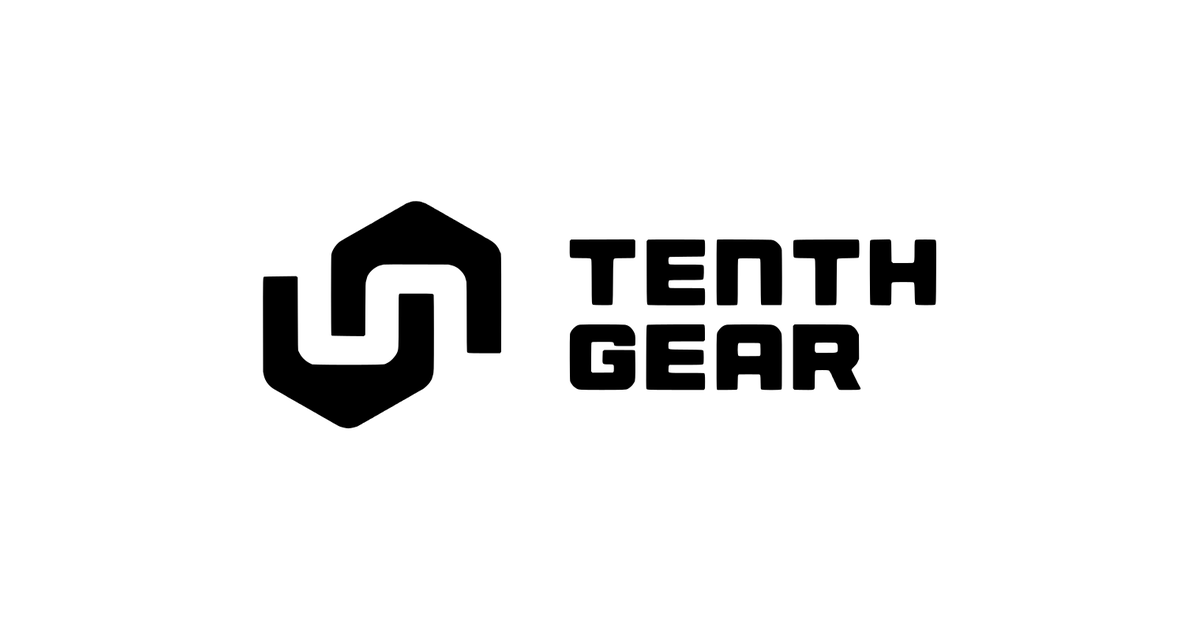
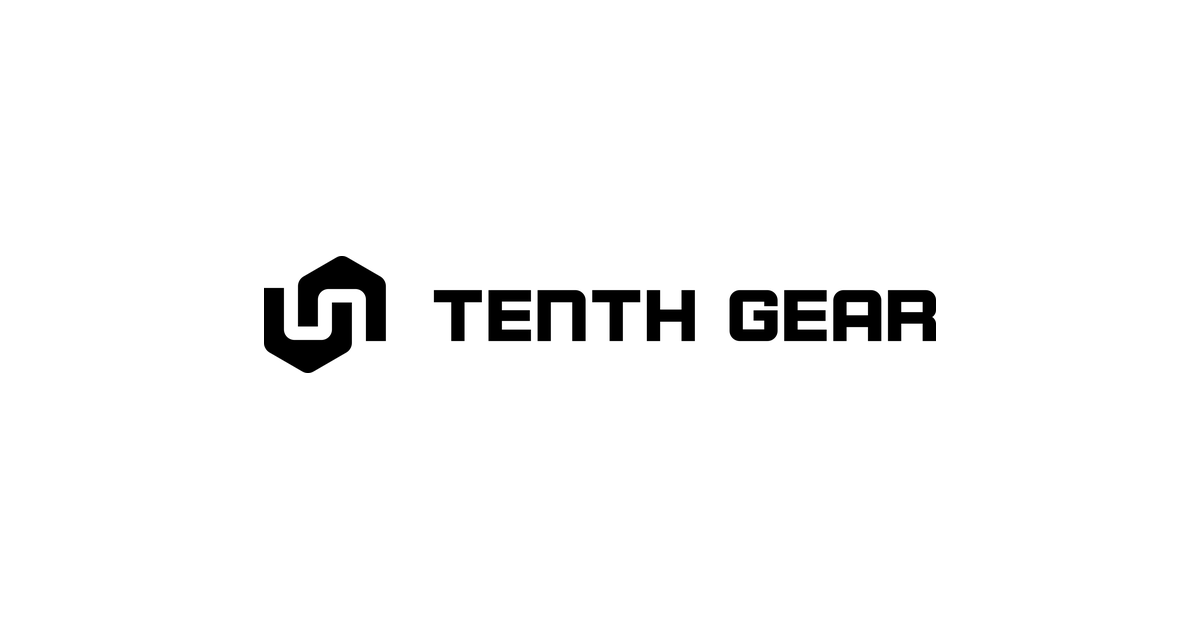
rebrand: swap placeholder mark for the final TenthGear identity (Phase 1)
- favicon.ico, browser.png, apple-touch-icon, badge-192/512, badge-white.svg, og-image
  now come from shared/brand-assets/exports (final logo, Aaron Burgard, 2026-09-03)
- rebrand post hero regenerated with the final vertical lockup
- delete orphaned old-brand files: Color logo svg, browser.svg, RObot logos/{Android,iPhone,generated-icon}.png, duplicate tenthgear-logo.png
- theme-color + manifest colors to Palette C black/white; icon links cache-busted ?v=2
- Organization sameAs -> linkedin.com/company/tenthgear (stale slug)
- docs: CLAUDE.md design notes, rebrand README + checklist section 4

Palette migration (navy/teal Tailwind theme) is Phase 2, tracked in shared/rebrand/master-plan.md.

Claude-Session: https://claude.ai/code/session_01AA4o3VHgkWfvjAnBwE9Cyp

Changed region(s): [[0.2158, 0.3016, 0.8017, 0.6937]]

diff --git a/docs/rebrand/checklist.md b/docs/rebrand/checklist.md
@@ -124,21 +124,26 @@ grep -rn "ro-bot\.io\|RO\.bot\|RO-bot\|RO\.blog\|ro\.bot" --include="*.astro" --
 - [ ] `docs/distribution/warranty-diagnostic-time.md`
 - [ ] `docs/distribution/warranty-labor-rate-reimbursement.md`
 
-## 4. Visual assets  🔴 blocked on master-plan Workstream 4
+## 4. Visual assets  ✅ mark swap DONE 2026-09-03 (Phase 1); palette = Phase 2
 
-- [ ] **Favicon** — `public/favicon.ico`. *(Note: there is no `favicon.svg` despite what the Ronin
-      checklist claimed. Consider adding one during regeneration.)*
-- [ ] **`public/browser.png`** + **`public/browser.svg`** — used as the `BlogPosting` publisher logo
-      in `src/layouts/BlogPost.astro` and allowlisted for Googlebot in `robots.txt`.
-- [ ] **`public/apple-touch-icon.png`**
-- [ ] **`public/RObot logos/`** — `Android.png`, `iPhone.png`, `head only.png`,
-      `generated-icon.png`. The folder name itself is brand-stale; rename it and update every
-      reference (see the manifest bug in §2).
-- [ ] **`public/Color logo - no background.svg`**
-- [ ] **Per-blog OG images** in `public/blog-assets/{N}-{slug}/` — only swap the ones with brand
-      chrome (logo overlay). Hero photos without brand chrome stay.
-- [ ] **About-page founder photo / brand imagery** — review for logo treatments.
-- [ ] Validate the new mark at **16–32px** before committing to it (favicon, tab, app icon).
+Final identity delivered 2026-09-03; every file below now comes from
+`../../shared/brand-assets/exports/` (generator: `brand-assets/generators/make_exports.py`).
+
+- [x] **Favicon** — `public/favicon.ico` (16/32/48 frames). No `favicon.svg` on the site; the app has one.
+- [x] **`public/browser.png`** — 192 px mark on white; still the `BlogPosting` publisher logo and the
+      `Organization` logo. `browser.svg` (unreferenced teal circle) deleted.
+- [x] **`public/apple-touch-icon.png`** — 180 px. Cache-busted `?v=2` in `BaseLayout.astro`.
+- [x] **`public/badge-192.png` / `badge-512.png`** — PWA icons, maskable-safe. `badge-white.svg` = tight-viewBox white mark (navbar, footer).
+- [x] **`public/og-image.png`** — horizontal lockup, 1200×630, regenerated.
+- [x] **`public/RObot logos/`** — `Android.png`, `iPhone.png`, `generated-icon.png` deleted (unreferenced).
+      `head only.png` KEPT: source for the rebrand blog hero generator. Folder rename deferred (only that one file left).
+- [x] **`public/Color logo - no background.svg`** — deleted (pre-robot design, unreferenced).
+- [x] **Rebrand post hero** — regenerated via `shared/rebrand/assets/generators/make_blog_hero.py`
+      (robot head → arrow → final vertical lockup). `tenthgear-logo.png` duplicate of og-image deleted.
+- [x] Validated the mark at **16–32 px** (`brand-assets/exports/social/legibility-16-32-48.png`).
+- [ ] **Per-blog OG images** with brand chrome — none found overriding `ogImage`; re-check when a post adds one.
+- [ ] **Phase 2: palette.** `tailwind.config.mjs` `navy`/`teal` (283 usages / 24 files), `global.css`,
+      re-derive from Palette C in `shared/brand.md`. Sequenced with typography.
 
 ## 5. Schema.org / SEO metadata
 

diff --git a/CLAUDE.md b/CLAUDE.md
@@ -95,7 +95,9 @@ public/
 
 **Reference model:** Jobber (getjobber.com). Clean, professional, spacious; outcome-first messaging; product screenshots over abstract graphics; trades-professional audience.
 
-**Color palette + typography:** still being finalized. Direction: clean, confident, automotive-appropriate (not cliche); clean sans-serif, readable on mobile.
+**Logo:** final (2026-09-03). Masters and sized exports in `../shared/brand-assets/`; the site copies from `exports/`, never hand-exports. Navbar/footer use the white mark (`badge-white.svg`); default OG is the horizontal lockup.
+
+**Color palette:** Palette C is locked in `../shared/brand.md` (black, charcoal, greys, white, plus status red/yellow/green). The live Tailwind `navy`/`teal` theme is placeholder-grade and migrates in a separate Phase 2 pass. **Typography:** still open. Direction: clean, confident, automotive-appropriate (not cliche); clean sans-serif, readable on mobile.
 
 **Layout principles:**
 1. Mobile-first.

diff --git a/docs/rebrand/README.md b/docs/rebrand/README.md
@@ -22,7 +22,7 @@ comms, DNS, design, and the app; this folder is website-only.
 ## Two things block the cutover, neither in this repo
 
 1. **`tenthgear.ai` has no A record** — nothing can be served on it.
-2. **No TenthGear visual identity exists** — no logo, no wordmark, no palette.
+2. ~~**No TenthGear visual identity exists** — no logo, no wordmark, no palette.~~ Placeholder mark bridged the cutover (2026-07-30); final logo + Palette C delivered 2026-09-03 and swapped in (`../../shared/brand-assets/`).
 
 A copy-only sweep can run ahead of both and deploy to the existing domain, at the cost of splitting
 the atomic deploy in two. Decide that deliberately rather than by accident.
